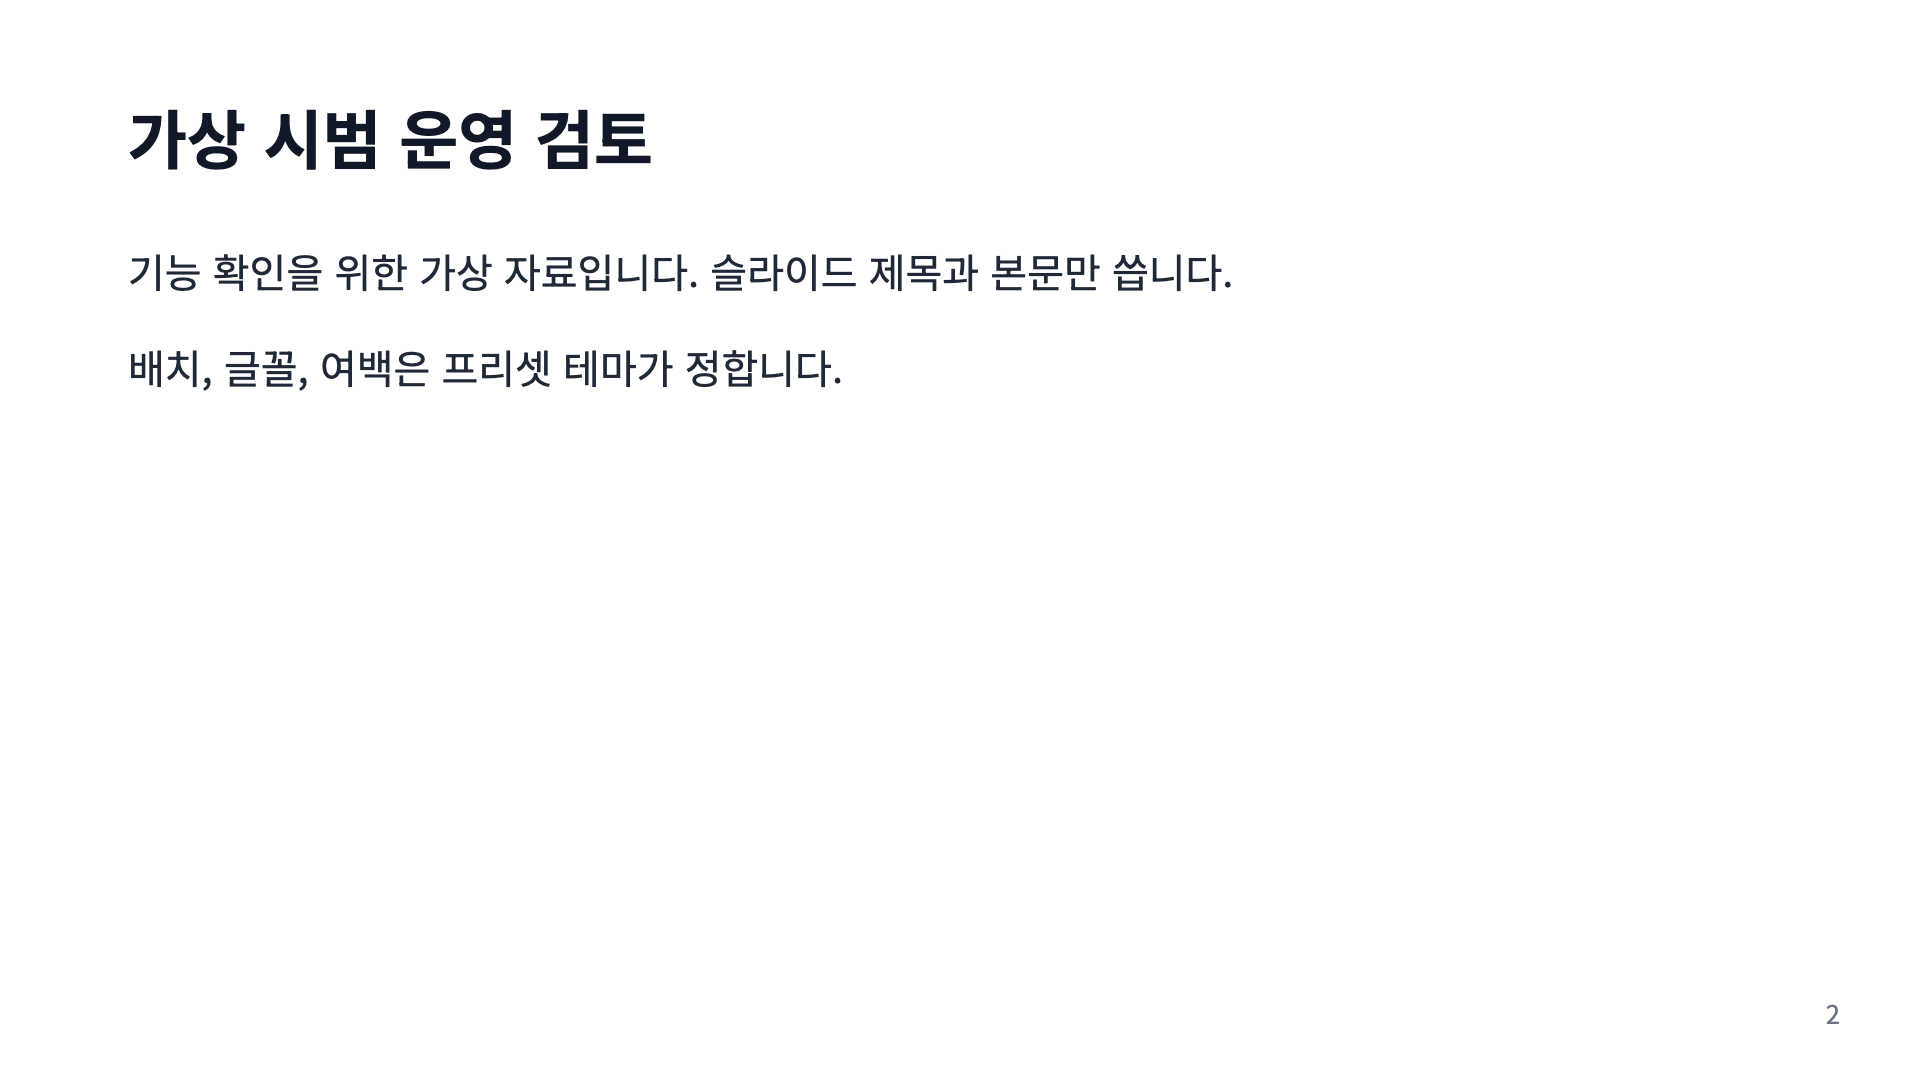
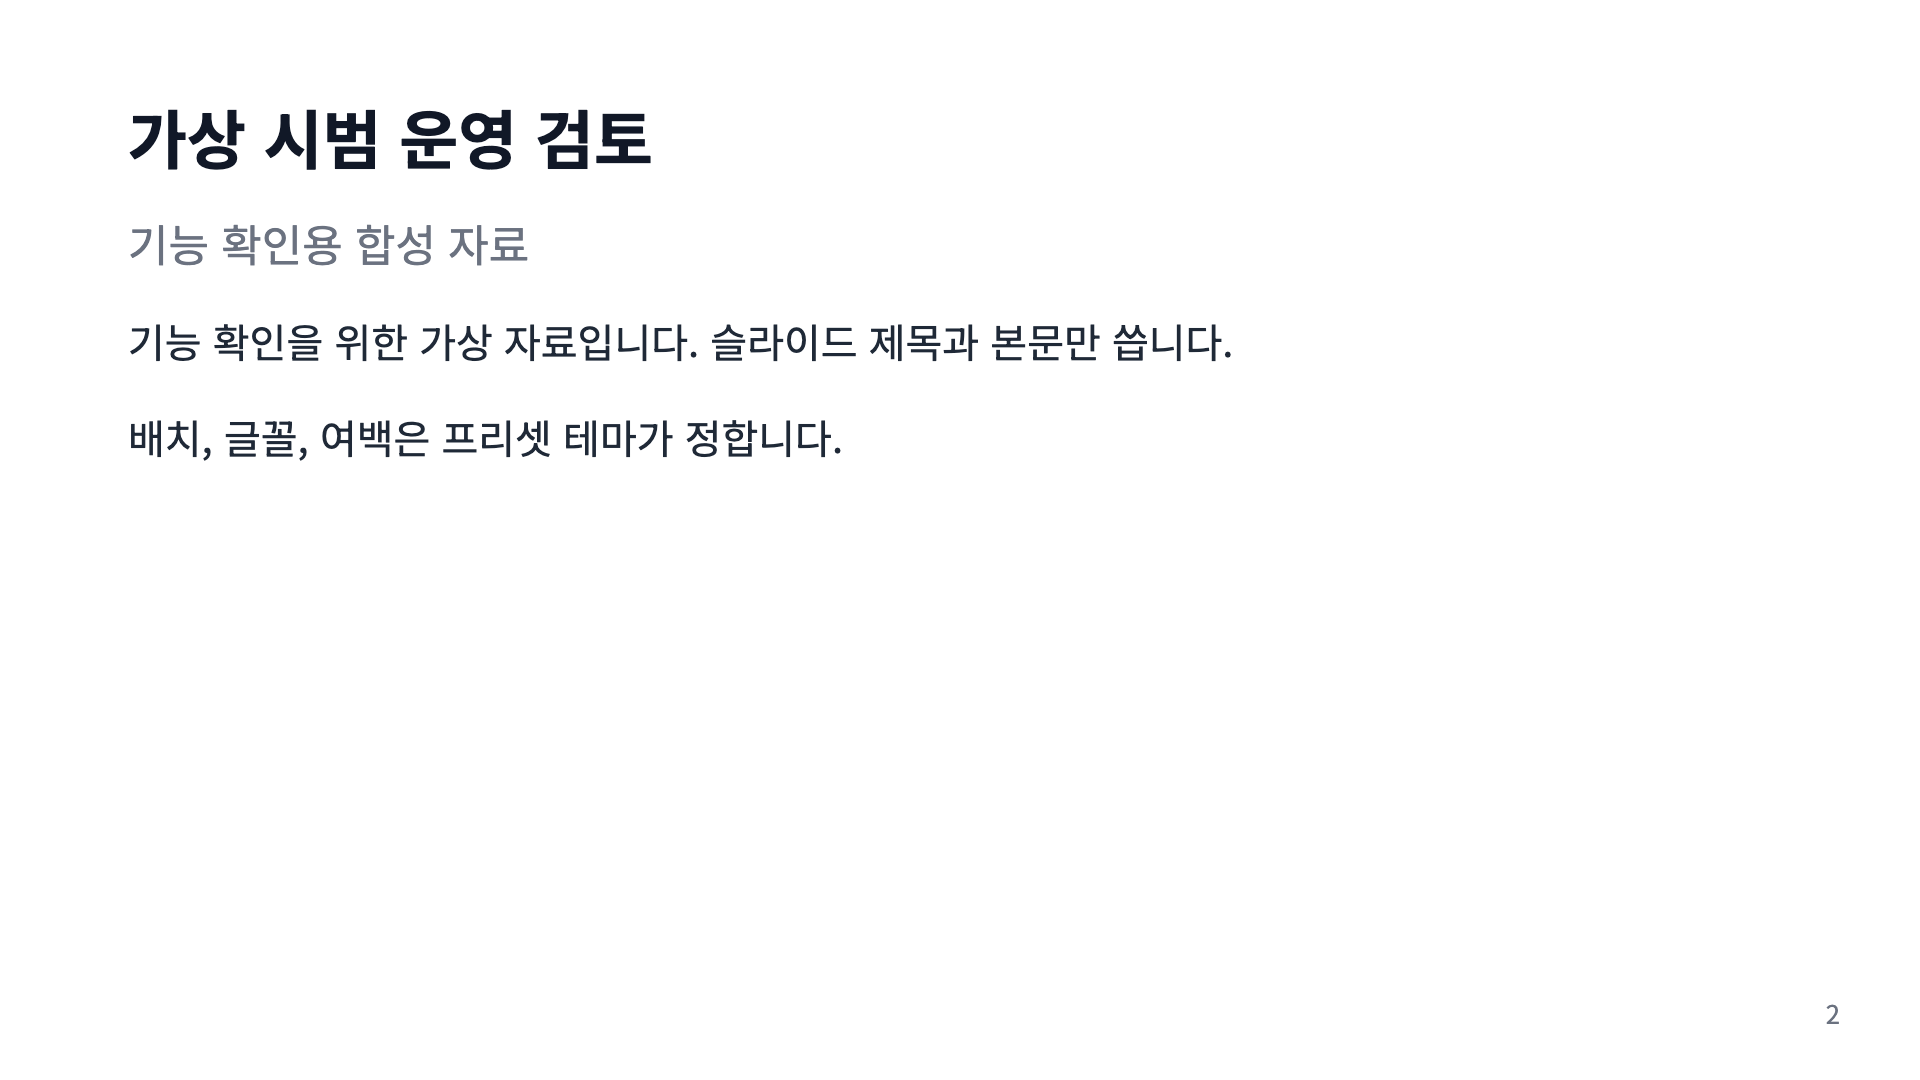
feat: markup parses to a tree and adds <wb-subtitle> (#23)
The compiler now builds a closed-vocabulary element tree, then lowers it
to the typed spec, so nested tags (list, card, columns) become small
lowering additions. Behavior and errors for existing markup are kept.
<wb-subtitle> after <wb-title> maps to spec subtitle; preset adds
--wb-subtitle-size.

Changed region(s): [[0.0625, 0.3056, 0.6562, 0.4278], [0.0625, 0.2139, 0.6562, 0.275]]

diff --git a/framework/presets/slide.css b/framework/presets/slide.css
@@ -13,6 +13,7 @@
   color: var(--wb-title-color);
   line-height: 1.25;
 }
+.ms-slide-subtitle { font-size: var(--wb-subtitle-size); color: var(--wb-muted); margin: 0; }
 .ms-slot-area { place-items: start stretch; align-content: start; }
 .ms-slot-area p { font-size: var(--wb-body-size); line-height: 1.6; margin: 0 0 var(--wb-gap); }
 /* Bare <wb-slide>: one centered statement. */

diff --git a/samples/markup/deck.html b/samples/markup/deck.html
@@ -2,6 +2,7 @@
 <wb-slide>안녕하세요</wb-slide>
 <wb-slide>
   <wb-title>가상 시범 운영 검토</wb-title>
+  <wb-subtitle>기능 확인용 합성 자료</wb-subtitle>
   기능 확인을 위한 가상 자료입니다. 슬라이드 제목과 본문만 씁니다.
 
   배치, 글꼴, 여백은 프리셋 테마가 정합니다.

diff --git a/framework/presets/themes/default.css b/framework/presets/themes/default.css
@@ -2,6 +2,7 @@
 --wb-title-size: 32px;
 --wb-title-weight: 700;
 --wb-title-color: #111827;
+--wb-subtitle-size: 22px;
 --wb-body-size: 20px;
 --wb-center-size: 40px;
 --wb-text: #1F2937;

diff --git a/framework/presets/themes/night.css b/framework/presets/themes/night.css
@@ -2,6 +2,7 @@
 --wb-title-size: 36px;
 --wb-title-weight: 800;
 --wb-title-color: #F9FAFB;
+--wb-subtitle-size: 24px;
 --wb-body-size: 22px;
 --wb-center-size: 44px;
 --wb-text: #E5E7EB;

diff --git a/src/markup.rs b/src/markup.rs
@@ -10,89 +10,152 @@ const DEFAULT_THEME: &str = include_str!("../framework/presets/themes/default.cs
 const NIGHT_THEME: &str = include_str!("../framework/presets/themes/night.css");
 const MAX_THEME_BYTES: usize = 8 * 1024;
 
+/// Tags and the attributes each accepts. Everything else is an error.
+const TAGS: &[(&str, &[&str])] = &[("wb-slide", &[]), ("wb-title", &[]), ("wb-subtitle", &[])];
+
+enum Node {
+    Text(String),
+    El(El),
+}
+
+struct El {
+    name: String,
+    pos: usize,
+    kids: Vec<Node>,
+}
+
+fn unexpected(el: &El) -> String {
+    format!("unexpected <{}> at byte {}", el.name, el.pos)
+}
+
+/// Tokenize into a tree of known elements and text. Checks vocabulary and nesting only.
+fn tree(markup: &str) -> Result<Vec<Node>> {
+    let mut stack = vec![El { name: String::new(), pos: 0, kids: Vec::new() }];
+    let emitter = DefaultEmitter::<usize>::new_with_span();
+    for token in Tokenizer::new_with_emitter(markup, emitter) {
+        match token.map_err(|e| e.to_string())? {
+            Token::String(s) => {
+                let text = String::from_utf8_lossy(&s.value).to_string();
+                if stack.len() == 1 && !text.trim().is_empty() {
+                    return Err(format!("text outside <wb-slide> at byte {}", s.span.start));
+                }
+                stack.last_mut().unwrap().kids.push(Node::Text(text));
+            }
+            Token::Comment(_) | Token::Doctype(_) => {}
+            Token::Error(e) => return Err(format!("markup error at byte {}: {}", e.span.start, e.value)),
+            Token::StartTag(t) => {
+                let name = String::from_utf8_lossy(&t.name).to_string();
+                let allowed = TAGS.iter().find(|(n, _)| *n == name).map(|(_, a)| *a);
+                let allowed = allowed.ok_or(format!("unexpected <{name}> at byte {}", t.span.start))?;
+                let bad = t.attributes.keys().any(|k| !allowed.contains(&String::from_utf8_lossy(k).as_ref()));
+                if bad || t.self_closing {
+                    return Err(format!("unsupported attributes or self-closing tag at byte {}", t.span.start));
+                }
+                stack.push(El { name, pos: t.span.start, kids: Vec::new() });
+            }
+            Token::EndTag(t) => {
+                let name = String::from_utf8_lossy(&t.name).to_string();
+                if stack.len() == 1 || stack.last().unwrap().name != name {
+                    return Err(format!("unexpected closing <{name}> at byte {}", t.span.start));
+                }
+                let el = stack.pop().unwrap();
+                stack.last_mut().unwrap().kids.push(Node::El(el));
+            }
+        }
+    }
+    if stack.len() > 1 {
+        return Err(format!("unclosed <{}> at end of input", stack.last().unwrap().name));
+    }
+    Ok(stack.pop().unwrap().kids)
+}
+
 fn collapse(s: &str) -> String {
     s.split_ascii_whitespace().collect::<Vec<_>>().join(" ")
 }
 
-fn finish(heading: Option<String>, body: &str, index: usize) -> Result<serde_json::Value> {
-    // Blank lines separate paragraphs; other whitespace collapses as in HTML.
-    let mut paragraphs = vec![String::new()];
-    for line in body.lines() {
-        if line.trim().is_empty() {
-            paragraphs.push(String::new());
-        } else {
-            let last = paragraphs.last_mut().unwrap();
-            last.push(' ');
-            last.push_str(line);
+/// Inline text of an element that may contain only text.
+fn text_of(el: &El) -> Result<String> {
+    let mut text = String::new();
+    for kid in &el.kids {
+        match kid {
+            Node::Text(t) => text.push_str(t),
+            Node::El(e) => return Err(unexpected(e)),
         }
     }
-    let blocks: Vec<_> = paragraphs
+    let text = collapse(&text);
+    if text.is_empty() {
+        return Err(format!("empty <{}> at byte {}", el.name, el.pos));
+    }
+    Ok(text)
+}
+
+/// Body content -> spec blocks. Blank lines separate paragraphs; other whitespace collapses.
+fn body(kids: &[&Node]) -> Result<Vec<serde_json::Value>> {
+    let mut paragraphs = vec![String::new()];
+    for kid in kids {
+        match kid {
+            Node::Text(t) => {
+                for (i, line) in t.split('\n').enumerate() {
+                    if i > 0 && line.trim().is_empty() {
+                        paragraphs.push(String::new());
+                    } else {
+                        let last = paragraphs.last_mut().unwrap();
+                        last.push(' ');
+                        last.push_str(line);
+                    }
+                }
+            }
+            Node::El(e) => return Err(unexpected(e)),
+        }
+    }
+    Ok(paragraphs
         .iter()
         .map(|p| collapse(p))
         .filter(|p| !p.is_empty())
         .map(|text| json!({"type": "text", "text": text}))
-        .collect();
+        .collect())
+}
+
+fn slide(el: &El, index: usize) -> Result<serde_json::Value> {
+    let mut slide = json!({});
+    // Optional head, before any body: <wb-title>, then optional <wb-subtitle>.
+    let mut at = 0;
+    let mut take = |name: &str| {
+        let j = at + el.kids[at..].iter().position(|k| !matches!(k, Node::Text(t) if t.trim().is_empty()))?;
+        match &el.kids[j] {
+            Node::El(e) if e.name == name => {
+                at = j + 1;
+                Some(e)
+            }
+            _ => None,
+        }
+    };
+    if let Some(title) = take("wb-title") {
+        slide["heading"] = json!(text_of(title)?);
+        if let Some(sub) = take("wb-subtitle") {
+            slide["subtitle"] = json!(text_of(sub)?);
+        }
+    }
+    let blocks = body(&el.kids[at..].iter().collect::<Vec<_>>())?;
     if blocks.is_empty() {
         return Err(format!("wb-slide[{index}]: body text is required"));
     }
-    let mut slide = json!({"blocks": blocks});
-    if let Some(heading) = heading {
-        slide["heading"] = json!(heading);
-    }
+    slide["blocks"] = json!(blocks);
     Ok(slide)
 }
 
 /// Compile markup to typed spec JSON. Same input, same bytes.
 pub fn compile(markup: &str) -> Result<String> {
-    enum At { Deck, Slide, Title }
-    let mut at = At::Deck;
-    let (mut slides, mut heading, mut title, mut body) = (Vec::new(), None, String::new(), String::new());
-    let emitter = DefaultEmitter::<usize>::new_with_span();
-    for token in Tokenizer::new_with_emitter(markup, emitter) {
-        let token = token.map_err(|e| e.to_string())?;
-        let (name, pos, is_end) = match &token {
-            Token::String(s) => {
-                let text = String::from_utf8_lossy(&s.value);
-                match at {
-                    At::Deck if text.trim().is_empty() => {}
-                    At::Deck => return Err(format!("text outside <wb-slide> at byte {}", s.span.start)),
-                    At::Slide => body.push_str(&text),
-                    At::Title => title.push_str(&text),
-                }
-                continue;
-            }
-            Token::Comment(_) | Token::Doctype(_) => continue,
-            Token::Error(e) => return Err(format!("markup error at byte {}: {}", e.span.start, e.value)),
-            Token::StartTag(t) => {
-                if !t.attributes.is_empty() || t.self_closing {
-                    return Err(format!("unsupported attributes or self-closing tag at byte {}", t.span.start));
-                }
-                (String::from_utf8_lossy(&t.name).to_string(), t.span.start, false)
-            }
-            Token::EndTag(t) => (String::from_utf8_lossy(&t.name).to_string(), t.span.start, true),
-        };
-        at = match (at, name.as_str(), is_end) {
-            (At::Deck, "wb-slide", false) => At::Slide,
-            (At::Slide, "wb-title", false) if heading.is_none() && body.trim().is_empty() => At::Title,
-            (At::Title, "wb-title", true) => {
-                let t = collapse(&title);
-                if t.is_empty() {
-                    return Err(format!("empty <wb-title> at byte {pos}"));
-                }
-                heading = Some(t);
-                At::Slide
-            }
-            (At::Slide, "wb-slide", true) => {
-                slides.push(finish(heading.take(), &body, slides.len())?);
-                (title, body) = (String::new(), String::new());
-                At::Deck
-            }
-            _ => return Err(format!("unexpected {}<{name}> at byte {pos}", if is_end { "closing " } else { "" })),
-        };
-    }
-    if !matches!(at, At::Deck) {
-        return Err("unclosed <wb-slide> or <wb-title> at end of input".into());
-    }
+    let slides = tree(markup)?
+        .iter()
+        .filter_map(|n| match n {
+            Node::El(e) if e.name == "wb-slide" => Some(Ok(e)),
+            Node::El(e) => Some(Err(unexpected(e))),
+            Node::Text(_) => None,
+        })
+        .enumerate()
+        .map(|(i, e)| slide(e?, i))
+        .collect::<Result<Vec<_>>>()?;
     // Deck title: first heading, else the first slide's first text.
     let first = slides.first().ok_or("no <wb-slide> found")?;
     let deck_title = slides.iter().find_map(|s| s.get("heading")).unwrap_or(&first["blocks"][0]["text"]).clone();
@@ -174,6 +237,15 @@ mod tests {
         let (_, slides) = crate::spec::parse(json.as_bytes()).unwrap();
         assert_eq!(slides[0].frontmatter[0].1, "slide-section");
         assert_eq!(spec("<wb-slide>hello</wb-slide>")["title"], "hello");
+    }
+
+    #[test]
+    fn subtitle_follows_title() {
+        let s = spec("<wb-slide><wb-title>T</wb-title>\n <wb-subtitle> 부제 </wb-subtitle>본문</wb-slide>");
+        assert_eq!((s["slides"][0]["subtitle"].as_str(), s["slides"][0]["blocks"][0]["text"].as_str()), (Some("부제"), Some("본문")));
+        for m in ["<wb-slide><wb-subtitle>S</wb-subtitle>x</wb-slide>", "<wb-slide><wb-title>T</wb-title>x<wb-subtitle>S</wb-subtitle></wb-slide>"] {
+            assert!(compile(m).unwrap_err().contains("unexpected <wb-subtitle>"), "{m}");
+        }
     }
 
     #[test]

diff --git a/tools/test_render.py b/tools/test_render.py
@@ -153,6 +153,7 @@ class RenderTest(unittest.TestCase):
             self.assertEqual(manifest["slide_count"], 3)
             self.assertIn("안녕하세요", manifest["slides"][0]["text"])
             self.assertIn("가상 시범 운영 검토", manifest["slides"][1]["text"])
+            self.assertIn("기능 확인용 합성 자료", manifest["slides"][1]["text"])
             self.assertFalse(any(s["overflow"] for s in manifest["slides"]))
             # Bare <wb-slide>: ink is centered on the canvas.
             bare = Image.open(self.root / theme / manifest["slides"][0]["file"]).convert("RGB")

diff --git a/docs/markup-dsl.md b/docs/markup-dsl.md
@@ -102,6 +102,7 @@ Rendered samples: `samples/markup/default.png`, `night.png`, and
 
 - A file is one or more `<wb-slide>` elements. Only whitespace and comments may appear between them.
 - `<wb-title>` (optional, first child) becomes the slide `heading`, and the slide uses the title-top layout.
+- `<wb-subtitle>` (optional, directly after `<wb-title>`) becomes `subtitle`. It is sized by `--wb-subtitle-size` and coloured with `--wb-muted`.
 - A slide without `<wb-title>` shows its body centered on both axes (`<wb-slide>hello</wb-slide>`). It maps to a spec slide without `heading`, which renders with `slide-section`. The preset sizes this text with `--wb-center-size`.
 - Remaining text becomes body. Whitespace collapses as in HTML, and blank-line-separated runs become separate `text` blocks.
 - Deck `title` is the first heading. If no slide has a heading, it is the first slide's first text.
@@ -109,6 +110,6 @@ Rendered samples: `samples/markup/default.png`, `night.png`, and
 
 ## Next slices (one tag each)
 
-`wb-subtitle` → `subtitle`, `wb-list`, `wb-card` → panel, `wb-columns`,
+`wb-list`, `wb-card` → panel, `wb-columns`,
 `wb-image`/`wb-svg` (#22), `wb-notes`, `wb-footer`. Notes and footer need spec
 fields.
